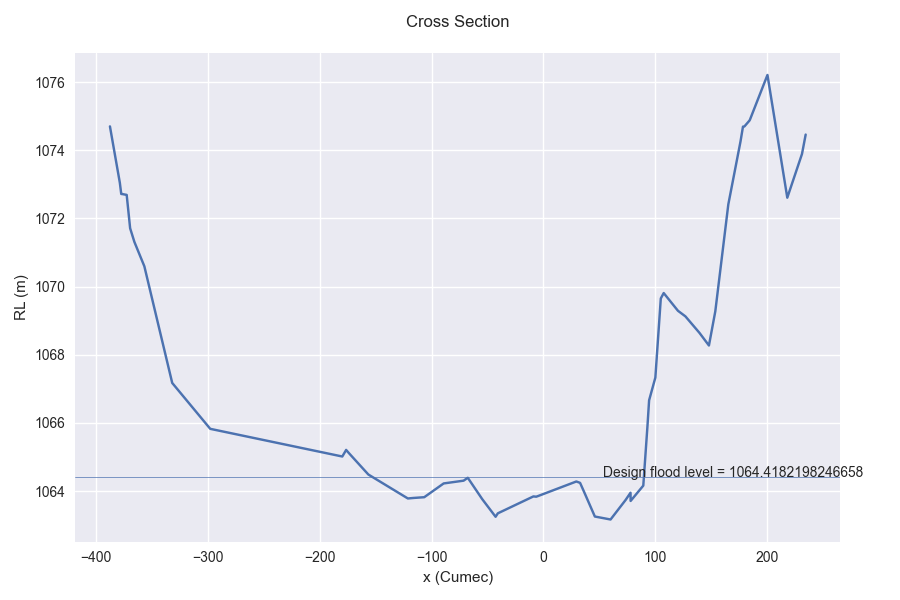
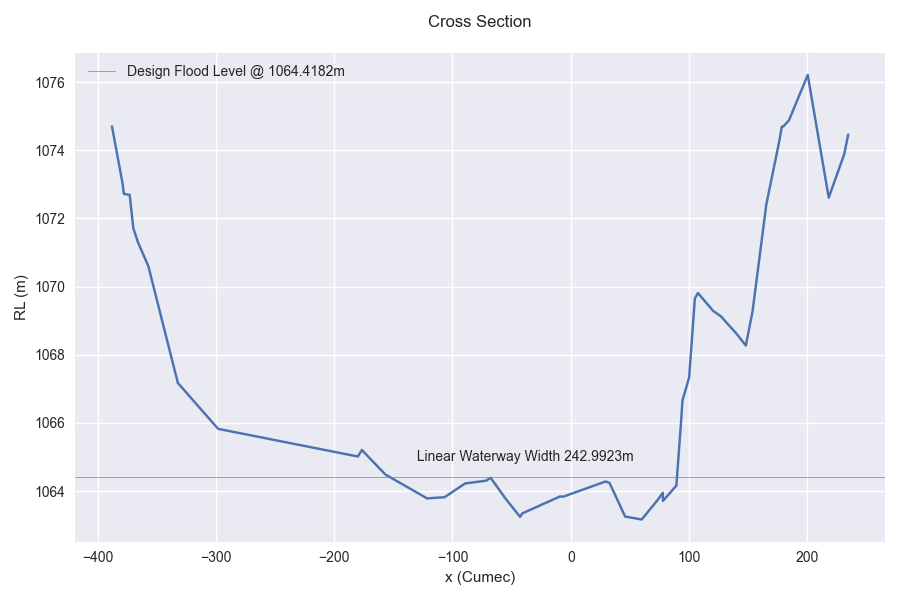
-new deadload

diff --git a/Dead Load and Section Properties.py b/Dead Load and Section Properties.py
@@ -1,0 +1,102 @@
+import csv
+#Positions are calculated from bottom left grid space of shape
+
+A_sum=0
+A_x=0
+A_y=0
+obj=[]
+length=[]
+height=[]
+pos=[]
+orient=[]
+area=[]
+moi=[]
+center=[]
+centroid=[]
+
+
+with open('data/Sect.csv', encoding='utf-8-sig') as csv_file:
+    csv_reader = csv.reader(csv_file, delimiter=',')
+    line_count = 0
+    for row in csv_reader:
+        # print(row)
+        obj.append((row[0]))
+        length.append(float(row[1]))
+        height.append(float(row[2]))
+        pos.append([float(row[3]),float(row[4])])
+        orient.append(float(row[5]))
+
+class shape:
+    def __init__(self,name,length,height,pos):
+        self.name=name
+        self.length=length
+        self.height=height
+        self.pos=pos
+
+    @property
+    def area(self):
+        if self.name =="triangle":
+            return (self.length*self.height)/2
+        elif self.name == "rectangle":
+            return (self.length*self.height)
+
+    @property
+    def MOI(self):
+        if self.name=="triangle":
+            return [((self.length * self.height**3) / 36),((self.length **3 * self.height) / 36)]
+        elif self.name=="rectangle":
+            return [((self.length * self.height**3) / 12),((self.length **3 * self.height) / 12)]
+
+    @property
+    def Center(self):
+        if self.name == "triangle":
+
+            return [self.length/3,self.height/3]
+        elif self.name == "rectangle":
+            return [self.length/2,self.height/2]
+
+for i in range(len(obj)):
+    a=shape(obj[i],length[i],height[i],pos[i])
+    area.append(a.area)
+    moi.append(a.MOI)
+    center.append(a.Center)
+    A_sum = A_sum + a.area
+    if obj[i]=="triangle":
+        if orient[i] == 1:
+            #top right
+            A_x=a.area*(pos[i][0]+length[i]-a.Center[0]) + A_x
+            A_y=a.area * (pos[i][1]+height[i]-a.Center[1]) + A_y
+            centroid.append([(pos[i][0]+length[i]-a.Center[0]),(pos[i][1]+height[i]-a.Center[1])])
+        elif orient[i] == 2:
+            #bottom left
+            A_x=a.area * (pos[i][0]+a.Center[0]) + A_x
+            A_y=a.area * (pos[i][1]+a.Center[1]) + A_y
+            centroid.append([(pos[i][0]+a.Center[0]),(pos[i][1]+a.Center[1])])
+        elif orient[i] == 3:
+            #top left
+            A_x=a.area * (pos[i][0]+a.Center[0])+ A_x
+            A_y=a.area * (pos[i][1]+height[i]-a.Center[1]) + A_y
+            centroid.append([(pos[i][0]+a.Center[0]), (pos[i][1]+height[i]-a.Center[1])])
+        elif orient[i] == 4:
+            #bottom right
+            A_x = a.area * (pos[i][0] + length[i] - a.Center[0])+ A_x
+            A_y = a.area * (pos[i][1] + a.Center[1]) + A_y
+            centroid.append([(pos[i][0] + length[i] - a.Center[0]),(pos[i][1] + a.Center[1])])
+    elif obj[i]=="rectangle":
+        A_x = a.area * (pos[i][0] + a.Center[0])+ A_x
+        A_y = a.area * (pos[i][1] + a.Center[1]) + A_y
+        centroid.append([(pos[i][0] + a.Center[0]), (pos[i][1] + a.Center[1])])
+axes = [(A_x/A_sum),(A_y/A_sum)]
+# print(A_sum)
+print (axes)
+I_x=0
+I_y=0
+for i in range(len(obj)):
+    h_x = int((centroid[i][0]-axes[0]))
+    h_y= abs((centroid[i][1] - axes[1]))
+    I_x=area[i]*h_x**2 + I_x
+    I_y = area[i] * h_y ** 2 + I_y
+print ("The principal moment of inertia of section about centroidal (x,y) axes:",axes," is ",[I_x,I_y])
+
+Dead_Loads=A_sum*25
+print("Dead load per m length is:",Dead_Loads)

diff --git a/rating_curve.py b/rating_curve.py
@@ -7,7 +7,7 @@ plt.ioff()
 
 dist = []
 rl = []
-with open('cross.csv') as csv_file:
+with open('data/cross.csv') as csv_file:
     #
     csv_reader = csv.reader(csv_file, delimiter=',')
     line_count = 0
@@ -76,10 +76,14 @@ p = 0
 q = 0
 for index, q in enumerate(discharge):
     if designQ > q:
-        p = (stage[index - 1], discharge[index - 1])
-        q = (stage[index], q)
+        p1 = (stage[index - 1], discharge[index - 1])
+        q1 = (stage[index], q)
+        pb = (linearWW[index - 1], discharge[index - 1])
+        qb = (linearWW[index], q)
         break
-st = interpolate_x(p, q, designQ)
+
+st = interpolate_x(p1, q1, designQ)
+lww = interpolate_x(pb, qb, designQ)
 
 
 plt.rcParams['figure.figsize'] = (9, 6)
@@ -99,11 +103,10 @@ ax2.plot(dist, rl)
 ax2.set_xlabel('x (Cumec)')
 ax2.set_ylabel('RL (m)')
 ax2.set_title('Cross Section\n')
-ax2.axhline(y=st, linewidth=0.5)
+ax2.axhline(y=st, linewidth=0.5, label=f'Design Flood Level @ {round(st, 4)}m', color='grey')
 # ax2.axvline(x=designQ, linewidth=0.5)
-ax2.text(50, st, f' Design flood level = {st}')
-
-
+ax2.text(-40, st, f' Linear Waterway Width {round(lww, 4)}m\n', horizontalalignment='center')
+plt.legend()
 plt.tight_layout()
 
 fig1.savefig('outputs/rating_curve.png')
